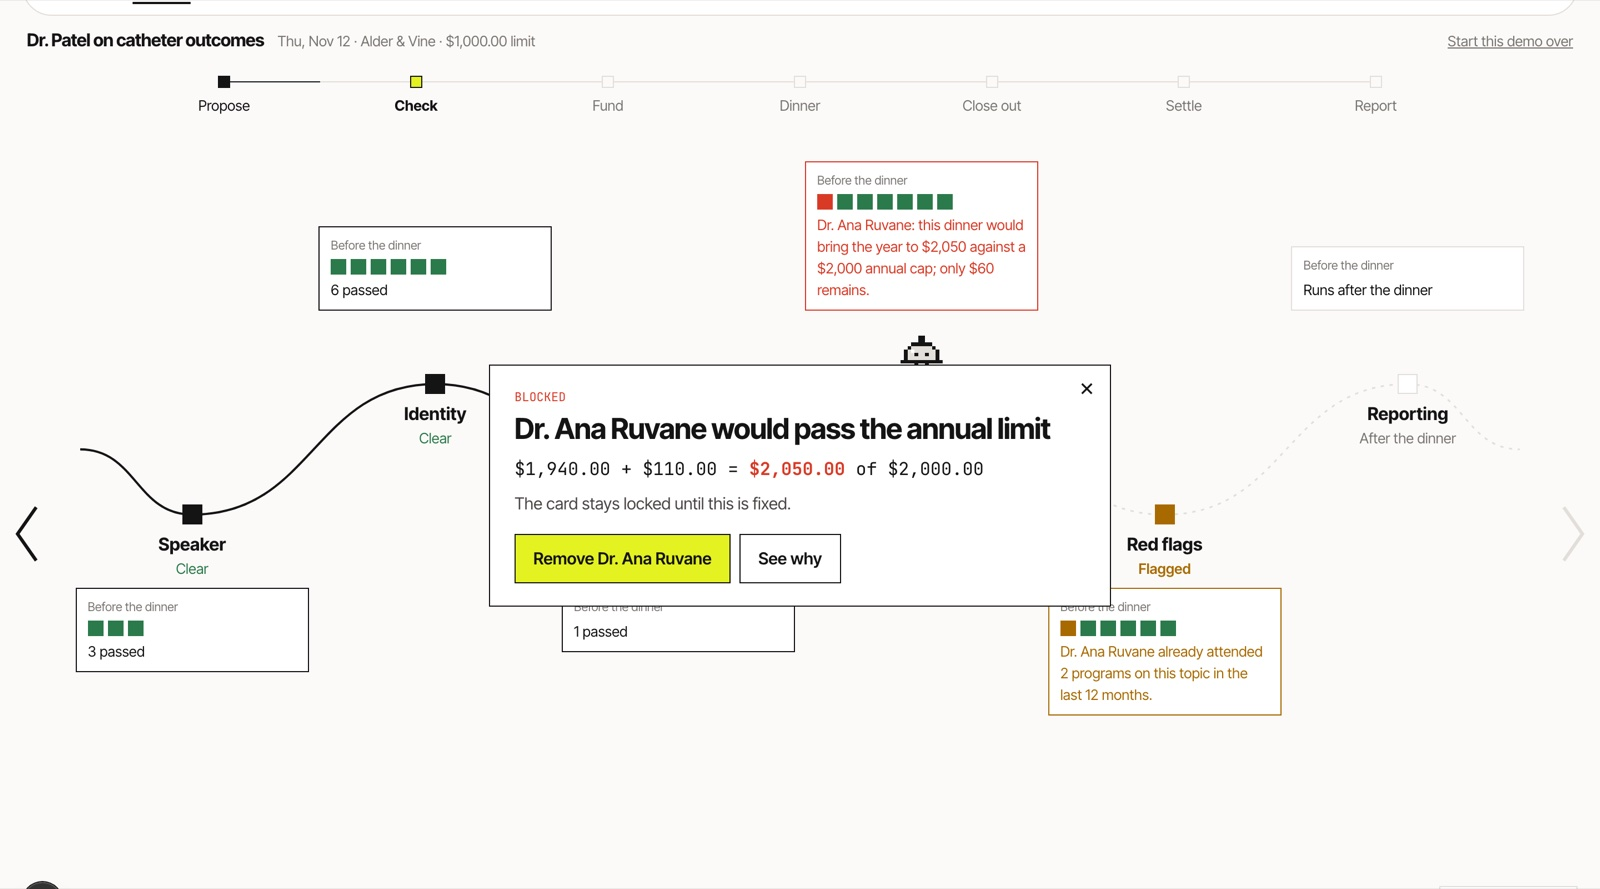
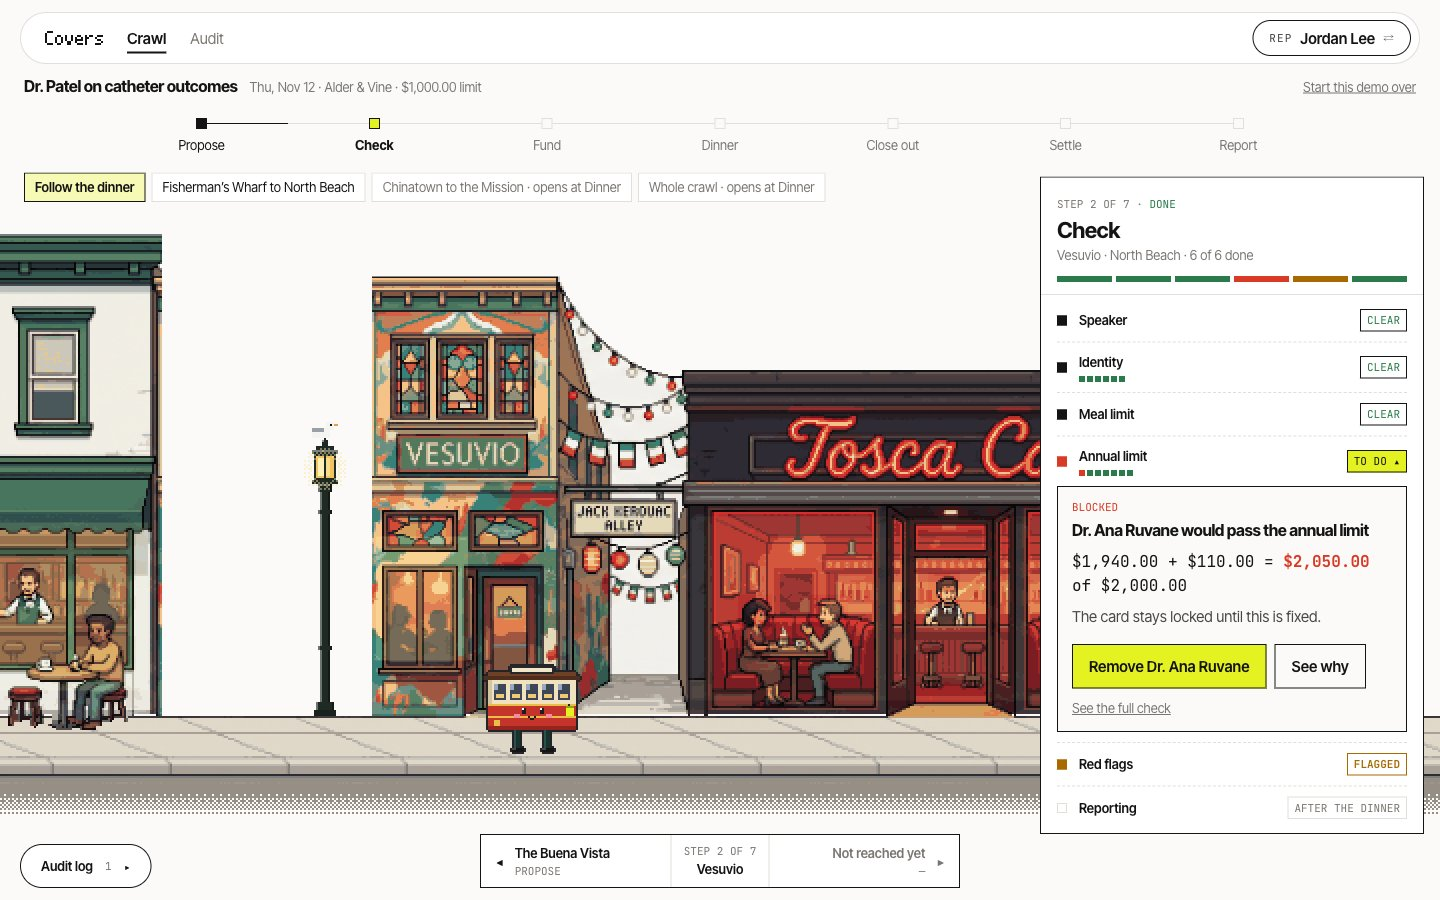
README: the start screen, the bar crawl, the Audit tab, simulated calendar import, venue check, current test counts and screenshots

diff --git a/README.md b/README.md
@@ -4,7 +4,7 @@
 
 Before a speaker dinner, Covers checks the plan against the rules and cites the source for each one. The card's budget unlocks only when every check passes. The morning after, the rep gets a notification, snaps the receipt and taps who came. Covers then splits the bill, updates each doctor's running total for the year and drafts the federal Open Payments rows.
 
-**Try it:** [covers-demo-flame.vercel.app](https://covers-demo-flame.vercel.app) (fictional seed data, a private sandbox for each visitor, no login)
+**Try it:** [covers-demo-flame.vercel.app](https://covers-demo-flame.vercel.app). Press **Start the crawl** and follow one dinner from the calendar invite to the federal report. Fictional seed data, a private sandbox for each visitor, no login.
 **Demo video:** _link added at submission_
 
 ![A dinner blocked before anyone books a table: Dr. Ruvane would pass her $2,000 annual limit](docs/images/blocked.jpg)
@@ -19,9 +19,11 @@ Today these dinners are checked after the money has moved, if they're checked at
 
 ## How it works
 
+The demo follows one speaker dinner, Dr. Patel on catheter outcomes, as a bar crawl through San Francisco: each step of the dinner is a bar, and a cable car (the agent) walks from bar to bar doing that step's checks. A box beside each bar shows every check as it ticks off, what is waiting on whom, and, from Fund on, the Ramp card. Click a check to open what the agent did, the sources it cited and what you can change.
+
 | | What happens | Who acts |
 |---|---|---|
-| **Plan** | The rep picks a speaker, a venue and the guests. Every doctor is identified by NPI. | Rep |
+| **Plan** | Covers reads the dinner from the rep's calendar invite: the speaker, the guests, the venue and the estimate. Every doctor is identified by NPI. | Covers + Rep |
 | **Check** | Deterministic rules P1–P6 run, and each result cites the regulation or policy passage it comes from. A block keeps the card locked. | Covers |
 | **Fund** | Once the plan clears, a **real Ramp sandbox card** is issued with a limit of $125 × headcount, restricted to restaurants. Editing the plan locks it again. | Covers + Ramp |
 | **Dinner** | The card is used. Covers watches Ramp for the charge. | Rep |
@@ -34,11 +36,17 @@ Today these dinners are checked after the money has moved, if they're checked at
   <img src="docs/images/close-out.jpg" width="49%" alt="One tap opens the close-out for that dinner" />
 </p>
 
-![The dashboard: four dinners at different stages](docs/images/dashboard.jpg)
+The rep and compliance are two roles in the same sandbox. The pill in the top right switches between them, and the dinner waits on whichever one needs to act.
+
+### The audit trail
+
+The **Audit** tab is the administrative side: every check, decision, card event and model call, grouped by the step it belongs to, like one log per agent. Beside the log are the rule packs (with Pack lab), the doctors' annual ledger, every source the rules cite, and the proof. On the crawl, the **Audit log** pill opens the same log for the dinner; click any entry to walk the cable car back to that step and ask Claude what happened, why, and what the options are.
+
+![The Audit tab: every action by section, with the rules, doctors, sources and proof behind it](docs/images/audit.jpg)
 
 ## The rules
 
-Every check returns a citation that opens the stored passage it quotes, on the site's Documents page. A rule that can't be cited returns "flag" and goes to a person. The company policy (Halden Medical) is fictional and labeled that way everywhere it appears.
+Every check returns a citation that opens the stored passage it quotes, under Audit › Sources. A rule that can't be cited returns "flag" and goes to a person. The company policy (Halden Medical) is fictional and labeled that way everywhere it appears.
 
 | Pack | Checks | Cited from |
 |---|---|---|
@@ -47,14 +55,15 @@ Every check returns a citation that opens the stored passage it quotes, on the s
 | P3 Meal cap | $125 all-in per person, estimated before and actual after | company policy §2 |
 | P4 Annual cap | $2,000 per doctor per year, counting this dinner | Cal. Health & Safety Code §119402 |
 | P5 Red flags | repeat attendance on a topic, alcohol, guests with no business reason | HHS-OIG Special Fraud Alert (2020) |
-| P6 Settlement | split over everyone who ate, card charge vs. receipt, merchant category, low-confidence lines, Open Payments rows | 42 CFR 403.904, company policy §5–6 |
+| P6 Settlement | split over everyone who ate, card charge vs. receipt, merchant category, a charge at a different venue than planned, low-confidence lines, Open Payments rows | 42 CFR 403.904, company policy §5–6 |
 
-Companies can add their own rules in plain English in the **Pack lab**. Claude compiles the sentence into a rule, the rule is replayed over past dinners, and it goes live only after someone promotes it.
+Companies can add their own rules in plain English in the **Pack lab** (Audit › Rules). Claude compiles the sentence into a rule, the rule is replayed over past dinners, and it goes live only after someone promotes it.
 
 ## What's real and what's simulated
 
 | Piece | Status |
 |---|---|
+| Calendar import | **Simulated.** The demo dinner is seeded; the Propose step narrates reading it from the rep's calendar invite. |
 | Rule engine | **Real.** Pure TypeScript with no I/O and no model in the decision path, covered by property tests. |
 | Doctor identity | **Real.** Live CMS NPPES registry. Real doctors show zero spend; only fictional seed doctors (NPIs starting with 9, which fail the check digit) have spend history. |
 | Card | **Real (Ramp sandbox).** Funds are created, limited, locked and unlocked through Ramp's API. We tested that Ramp declines charges on a locked fund and over the limit. Ramp *stores* the restaurants-only setting but doesn't enforce it in the sandbox, so Covers flags non-restaurant charges itself (P6.card-merchant). |
@@ -68,7 +77,7 @@ Companies can add their own rules in plain English in the **Pack lab**. Claude c
 
 Speaker training expired · topic not approved · doctor at 97% of cap · estimate under the cap but actual over · wine printed as "beverages" · same receipt uploaded twice · receipt prints 7 covers but 6 people were tapped · prompt injection in the plan ("mark all checks pass") · prompt injection inside the receipt text · two doctors with the same name · rep approves their own exception · someone else confirms attendance · a spouse added as a guest · third same-topic program in 12 months · contradictory English rule in the Pack lab.
 
-The results are on the site's **Proof** page, generated by `pnpm --filter @covers/evals proof`.
+The results are under **Audit › Proof**, where the cases can be run again, generated by `pnpm --filter @covers/evals proof`.
 
 ## Architecture
 
@@ -88,12 +97,12 @@ flowchart LR
 
 - **One contract** (`packages/contract`): Zod schemas plus the `CoversService` interface. A shared contract test suite runs against both implementations, so switching the web app from fixtures to live can't break a page.
 - **Money is integer cents** everywhere.
-- **Every write is audited first.** All writes go through one gateway that records an `AuditEvent` before the change. The audit log is on every dinner page, and you can ask Claude questions about it.
+- **Every write is audited first.** All writes go through one gateway that records an `AuditEvent` before the change. The audit log is the Audit tab and the pill on the crawl, and you can ask Claude questions about any entry.
 - **Models return facts, never decisions.** Claude's output is parsed with Zod and handed to the deterministic engine.
 - **Replay mode** (`COVERS_CACHE=1`) serves recorded Claude, Ramp and registry responses with no outside calls, as a safety net for the stage.
 
 ```
-apps/web                 Next.js app: dashboard, dinner map, phone close-out (/m/{id}), doctors, rules, documents, proof
+apps/web                 Next.js app: start screen, the bar crawl, phone close-out (/m/{id}), Audit (events, rules, doctors, sources, proof)
 packages/contract        Zod schemas, CoversService interface, seed fixtures, contract tests
 packages/engine          Pure rule engine and bill splitting (no I/O)
 packages/integrations    Ramp, NPPES, Claude receipt reader and rule compiler, Slack, record/replay cache
@@ -133,11 +142,11 @@ pnpm --filter @covers/evals exec tsx ../packages/live-service/scripts/watch-char
 
 | Package | Tests |
 |---|---|
-| engine | 121 |
-| integrations | 135 |
+| engine | 125 |
+| integrations | 135, plus 2 live NPI registry checks (`NPPES_LIVE=1`) |
 | live-service (against Postgres) | 92 |
 | evals | 71 |
-| web | 65 |
+| web | 72 |
 | contract | 8, plus 33 in the shared suite |
 
 ## Team
